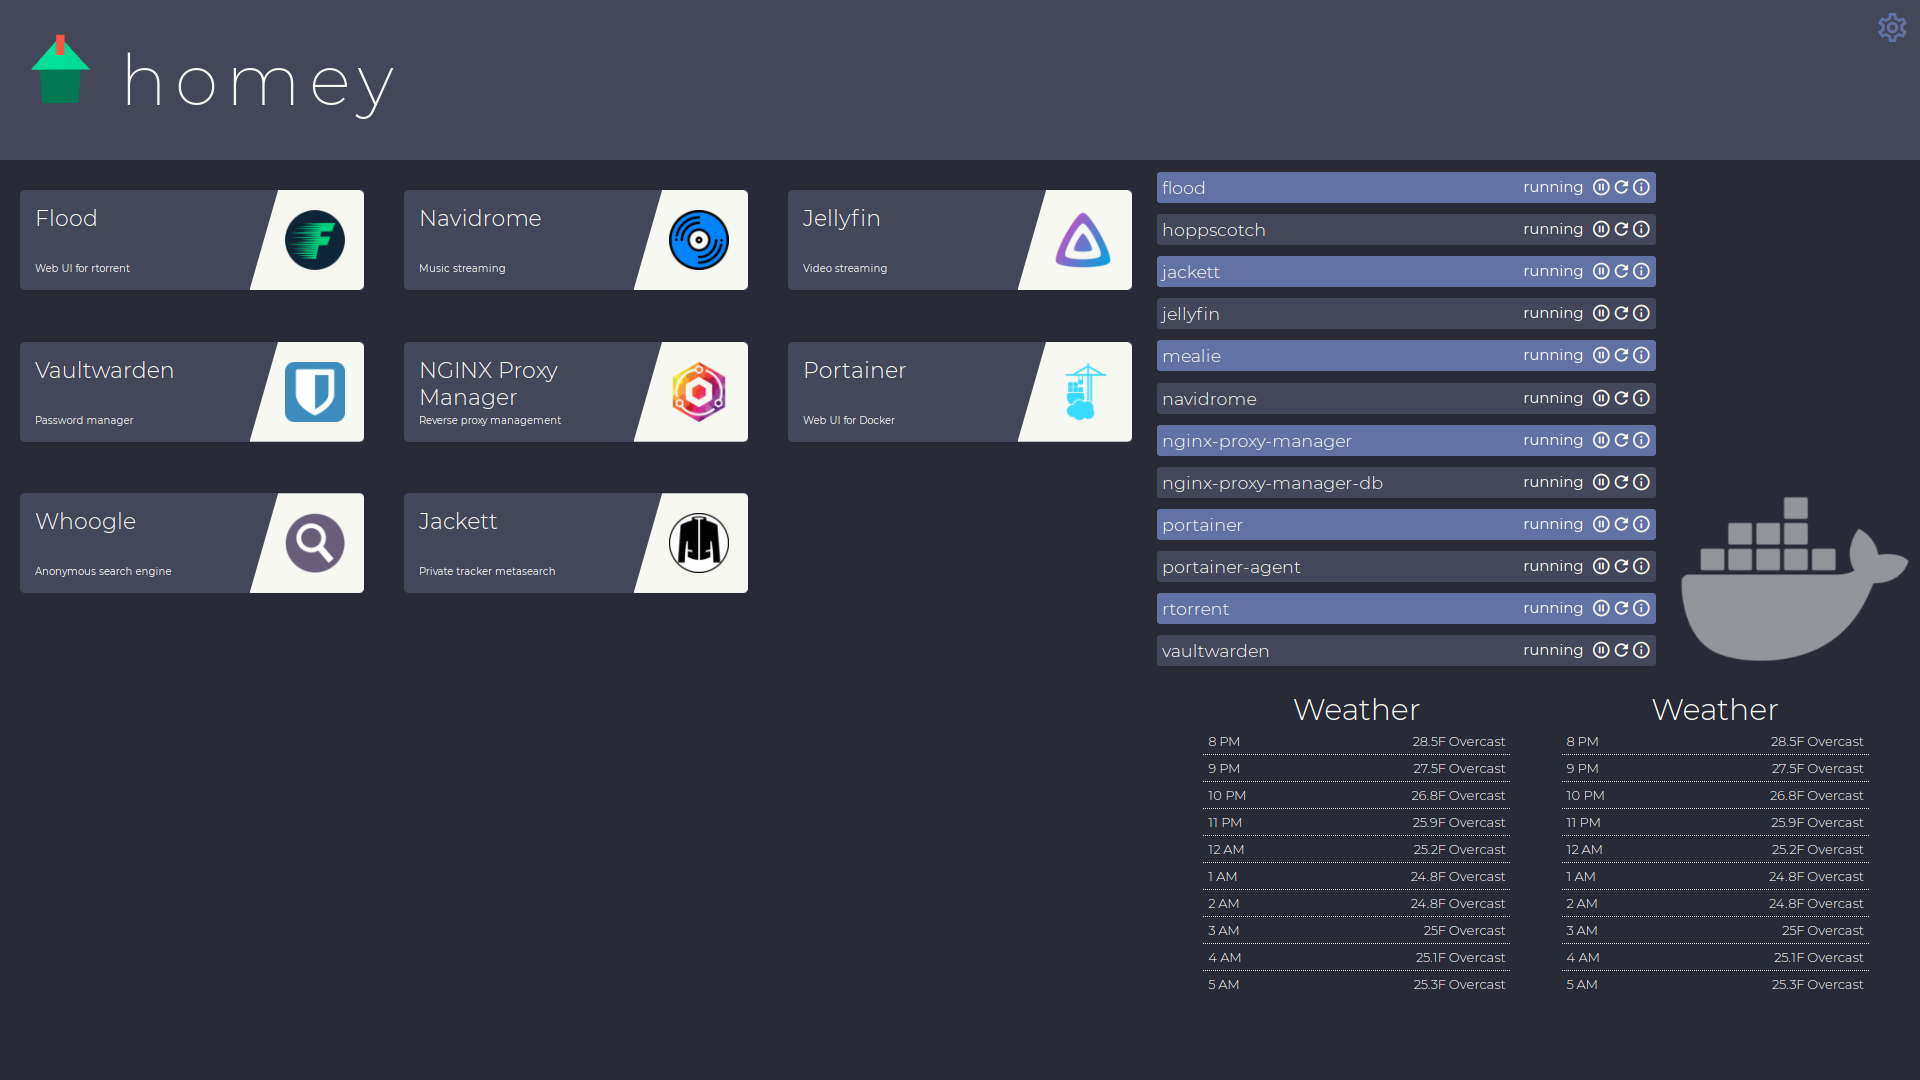
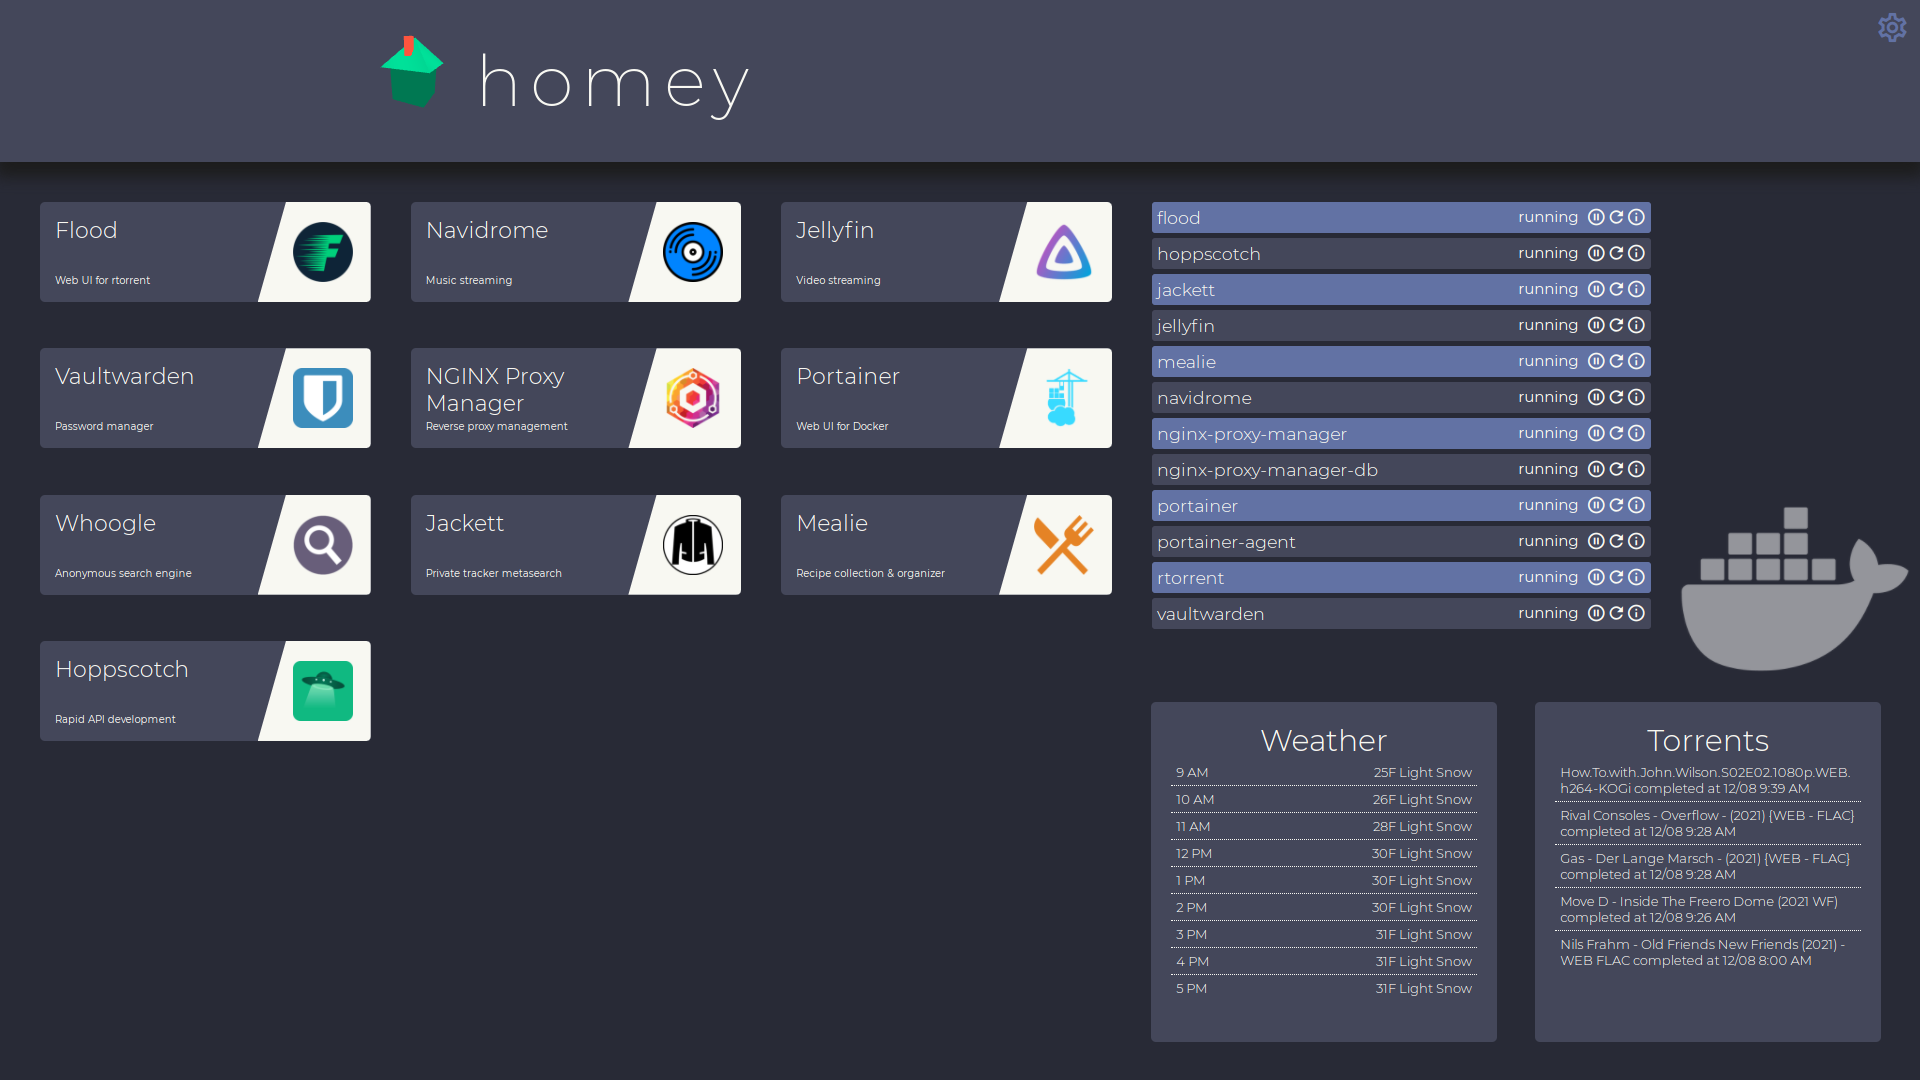
More styling work. Added Flood rtorrent frontend integration

diff --git a/public/css/style.css b/public/css/style.css
@@ -76,11 +76,14 @@
   display: flex;
   width: 100%;
   align-items: center;
-  justify-content: center; }
+  justify-content: center;
+  box-shadow: 0px 10px 15px 5px #1c1c1c; }
   .header-container h1 {
     font-size: 7rem;
     font-weight: 200;
     letter-spacing: .8rem; }
+  .header-container canvas {
+    margin-left: 18.5%; }
   .header-container span {
     color: #6272a4;
     margin: 1rem;
@@ -94,7 +97,7 @@
   color: #f8f8f2;
   display: grid;
   height: 100vh;
-  grid-template-rows: 1fr 5fr 4fr;
+  grid-template-rows: 15% 50% 35%;
   grid-template-columns: 3fr 2fr; }
 
 h2 {
@@ -105,16 +108,20 @@ h2 {
   grid-row: 3;
   grid-column: 2;
   display: flex;
-  justify-content: space-evenly;
-  text-align: center; }
+  justify-content: space-around;
+  text-align: center;
+  transform: translateX(-2rem); }
 
 .weather-card-container {
   font-weight: 300;
   font-size: 1.3rem;
-  width: 40%;
+  width: 45%;
+  height: 90%;
   text-align: left;
-  padding-top: 2rem;
-  padding-bottom: 2rem; }
+  padding: 2rem;
+  background-color: #44475a;
+  border-radius: .5rem;
+  overflow-wrap: break-word; }
   .weather-card-container h2 {
     text-align: center; }
   .weather-card-container span {
@@ -139,12 +146,14 @@ h2 {
   cursor: pointer;
   background-color: #44475a;
   border-radius: .5rem;
-  transition: all .2s ease-out;
+  transition: all .35s ease-out;
   display: flex;
   height: 10rem; }
   .service-card-container:hover {
     transform: translateY(-3px);
     box-shadow: 5px 5px 15px 5px #1c1c1c; }
+  .service-card-container:hover > .service-card-container__image-container {
+    clip-path: polygon(0 0, 100% 0%, 100% 100%, 25% 100%); }
   .service-card-container:active {
     transform: translateY(-1px);
     box-shadow: 2px 2px 7px 5px #1c1c1c; }
@@ -166,6 +175,7 @@ h2 {
       text-align: left; }
   .service-card-container__image-container {
     transform: translateZ(0);
+    transition: .35s all ease-out;
     background-color: #f8f8f2;
     clip-path: polygon(25% 0, 100% 0%, 100% 100%, 0 100%);
     height: 100%;
@@ -174,6 +184,7 @@ h2 {
     align-items: center;
     border-radius: inherit;
     border-bottom-left-radius: 0px;
+    border-top-left-radius: 0px;
     width: 12rem;
     padding-left: 1.7rem;
     height: 10rem; }
@@ -186,23 +197,24 @@ h2 {
   grid-column: 2;
   display: flex;
   flex-direction: column;
-  justify-content: space-between;
   background-image: url("../images/docker-large.png");
   background-size: 30%;
   background-repeat: no-repeat;
   background-position: bottom 1rem right 1rem;
-  margin-top: 0.5rem; }
+  margin-top: 4rem;
+  margin-bottom: 2rem; }
 
 .docker-card-container {
   width: 65%;
   padding: .5rem;
   font-size: 1.5rem;
-  margin: 0.5rem;
   border-radius: .3rem;
   display: flex;
   justify-content: space-between;
   align-content: center;
   background-color: #6272a4; }
+  .docker-card-container:not(:first-child) {
+    margin-top: 0.5rem; }
   .docker-card-container h3 {
     font-weight: 300; }
   .docker-card-container span {

diff --git a/src/components/FloodCard.vue b/src/components/FloodCard.vue
@@ -1,0 +1,39 @@
+<template>
+  <div class="weather-card-container">
+    <h2>Torrents</h2>
+    <!-- <h3 style="text-align: center">{{floodStats.downSpeed}} Up | {{floodStats.upSpeed}} Down</h3> -->
+    <div v-for="n in this.notifications" :key="n.time" class="weatherElement" >{{n.msg}} completed at {{n.time}}</div>
+  </div>
+</template>
+
+<script>
+export default {
+  name: 'FloodCard',
+  props: {
+      title: String,
+  },
+  data () {
+    return {
+      notifications: Array,
+      floodStats: Array,
+    }
+  },
+  methods: {
+    getFloodData: function() {
+        this.axios.get('http://0.0.0.0:9101/floodNotifications').then((res) => {
+          this.notifications = res.data.slice(0,5)
+      }).catch(e => {
+        console.log('Could not reach homey API');
+      });
+      this.axios.get('http://0.0.0.0:9101/floodStats').then((res) => {
+          this.floodStats = res.data
+      }).catch(e => {
+        console.log('Could not reach homey API');
+      });
+    },
+  },
+  beforeMount() {
+      this.getFloodData();
+  },
+}
+</script>

diff --git a/sass/_services.scss b/sass/_services.scss
@@ -16,7 +16,7 @@
     cursor: pointer;
     background-color: $backgroundColor2;
     border-radius: .5rem;
-    transition: all .2s ease-out;
+    transition: all .35s ease-out;
 
     display: flex;
     height: 10rem;
@@ -24,6 +24,10 @@
     &:hover {
         transform: translateY(-3px);
         box-shadow: 5px 5px 15px 5px $shadowColor;
+    }
+
+    &:hover > &__image-container {
+        clip-path: polygon(0 0, 100% 0%, 100% 100%, 25% 100%);
     }
 
     &:active {
@@ -55,6 +59,7 @@
 
     &__image-container {
         transform: translateZ(0);   // Fix child elements shaking on hover
+        transition: .35s all ease-out;
 
         background-color: $white;
         clip-path: polygon(25% 0, 100% 0%, 100% 100%, 0 100%);
@@ -64,6 +69,7 @@
         align-items: center;
         border-radius: inherit;
         border-bottom-left-radius: 0px;
+        border-top-left-radius: 0px;
         width: 12rem;
         padding-left: 1.7rem;
         height: 10rem;

diff --git a/sass/_docker.scss b/sass/_docker.scss
@@ -4,21 +4,24 @@
 
     display: flex;
     flex-direction: column;
-    justify-content: space-between;
 
     background-image: url('../images/docker-large.png');
     background-size: 30%;
     background-repeat: no-repeat;
     background-position: bottom 1rem right 1rem;
-    margin-top: 0.5rem;
+    margin-top: 4rem;
+    margin-bottom: 2rem;
 }
 
 .docker-card-container {
     width: 65%;
     padding: .5rem;
     font-size: 1.5rem;
-    margin: 0.5rem;
     border-radius: .3rem;
+
+    &:not(:first-child) {
+        margin-top: 0.5rem;
+    }
 
     display: flex;
     justify-content: space-between;

diff --git a/sass/_cards.scss b/sass/_cards.scss
@@ -3,17 +3,21 @@
     grid-column: 2;
 
     display: flex;
-    justify-content: space-evenly;
+    justify-content: space-around;
     text-align: center;
+    transform: translateX(-2rem);
 }
 
 .weather-card-container {
     font-weight: 300;
     font-size: 1.3rem;
-    width: 40%;
+    width: 45%;             // fix this
+    height: 90%;
     text-align: left;
-    padding-top: 2rem;
-    padding-bottom: 2rem;
+    padding: 2rem;
+    background-color: $backgroundColor2;
+    border-radius: .5rem;
+    overflow-wrap: break-word;
 
     & h2 {
         text-align: center;

diff --git a/src/components/DockerContainer.vue b/src/components/DockerContainer.vue
@@ -1,11 +1,11 @@
 <template>
   <div class="docker-container">
-    <div class="docker-container__docker-services-container">
+    <!-- <div class="docker-container__docker-services-container">
       
     </div>
     <div class="docker-container__button-container">
       
-    </div>
+    </div> -->
     <DockerService v-for="s in dockerServices" :key="s.name" :serviceName="s.name" :status="s.status" :uptime="s.uptime"/>
   </div>
 </template>

diff --git a/src/components/WeatherCard.vue b/src/components/WeatherCard.vue
@@ -18,8 +18,8 @@ export default {
   },
   methods: {
     getHourlyWeather: function() {
-        this.axios.get('http://0.0.0.0:9101/weatherHourly/20211207').then((res) => {
-          this.weatherData = res.data.slice(0,10)
+        this.axios.get('http://0.0.0.0:9101/weatherHourly/20211208').then((res) => {
+          this.weatherData = res.data.slice(0,9)
       }).catch(e => {
         console.log('Could not reach homey API');
       });

diff --git a/src/components/CardContainer.vue b/src/components/CardContainer.vue
@@ -1,17 +1,19 @@
 <template>
   <div class="card-container">
     <WeatherCard title="Weather"/>
-    <WeatherCard title="Placeholder"/>
+    <FloodCard title="Torrents"/>
   </div>
 </template>
 
 <script>
 import WeatherCard from './WeatherCard.vue'
+import FloodCard from './FloodCard.vue'
 
 export default {
   name: 'CardContainer',
   components: {
-      WeatherCard
+      WeatherCard,
+      FloodCard,
   },
   data() {
     return {

diff --git a/sass/_header.scss b/sass/_header.scss
@@ -8,12 +8,17 @@
     align-items: center;
     justify-content: center;
 
+    box-shadow: 0px 10px 15px 5px $shadowColor;
+
     // Page title
     & h1 {
         font-size: 7rem;
         font-weight: 200;
         letter-spacing: .8rem;
-        //color: $cyan;
+    }
+
+    & canvas {
+        margin-left: 18.5%;
     }
 
     // Settings icon

diff --git a/sass/_body.scss b/sass/_body.scss
@@ -7,7 +7,7 @@
     
     display: grid;
     height: 100vh;
-    grid-template-rows: 1fr 5fr 4fr;
+    grid-template-rows: 15% 50% 35%;
     grid-template-columns: 3fr 2fr;
 }
 
